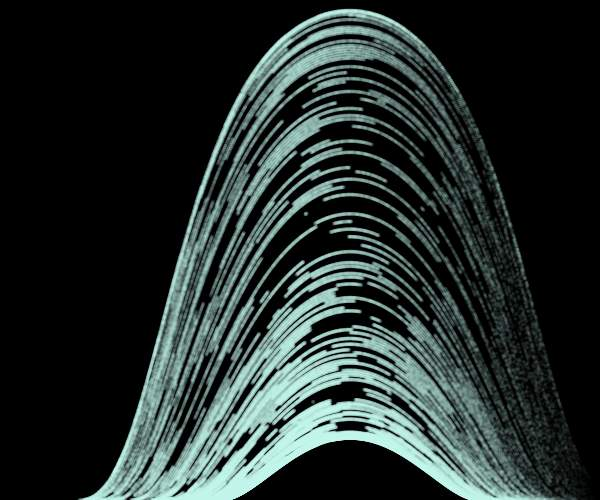
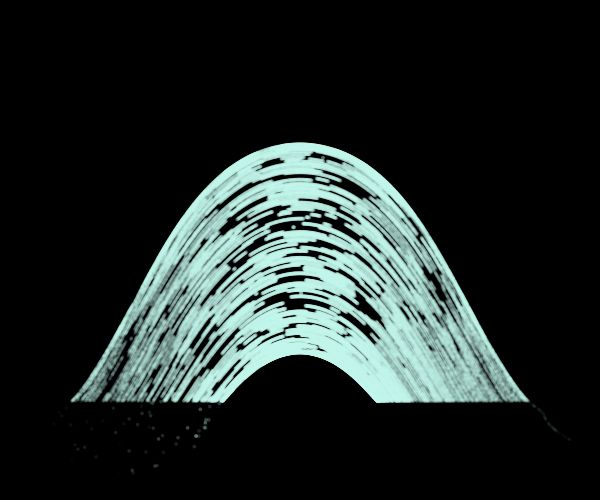
parameterize location via commandline; toss x and y manipulation, clearly list assumptions and TODOs

diff --git a/sky-ring.py b/sky-ring.py
@@ -10,59 +10,76 @@
 # also, we are lacking weather data (i.e. solar magnitude due to clouds,etc.), so we
 # fake it. just follow the FIXME's
 
-import datetime
-import ephem # to install, run `easy_install pyephem`
-import cairo
-from math import pi,radians,sin,cos,sqrt
-import random # FIXME: just for naughty data-faking
+# http://www.reddit.com/r/pics/comments/bqa9y/the_path_of_the_sun_through_the_sky_over_the_last/c0o162g
+# edit: looks like Bellshill, Scotland. The 56th parallel, so that makes sense.
 
-filename = 'sky-ring'
+# Model/Assumptions:
+#  - left is due East, right is due West, horizon is 0° geometric, top is 90° geometric (i.e. straight up)
+#  - center of image at the horizon is due South
+
+# TODO's
+#  - size of sun is arbitrary, figure out how to use ephem's sun.size (and maybe sun.magnitude)
+#  - breaks in the sunlight (clouds) are psuedo-random to simulate real climate data. find some real climate data!
+
+import datetime, sys, random, re
+from math import pi,radians,sin,cos,sqrt
+import ephem, cairo
+
 height = 500.0
 width = 600.0
 
-horizon = 0
+horizon = height / 5
+
+if len(sys.argv) != 2:
+	print('Usage: %s location' % (sys.argv[0]))
+	print('  Location can be a city name ("New York") or a latitude,longitude pair (0:0,0:0)')
+	sys.exit()
+
+loc = sys.argv[1]
+print('Using location (%s)' % loc)
+filename = 'sky-ring-%s.jpg' % re.sub('\W','-',loc)
+print('Filename %s' % filename)
 
 surface = cairo.ImageSurface(cairo.FORMAT_ARGB32, int(width), int(height))
 cr = cairo.Context(surface)
-# draw background
+# black background
 cr.set_source_rgba(0,0,0,1)
 cr.rectangle(0, 0, width, height)
 cr.fill()
 cr.stroke()
 
-#o = ephem.Observer()
-# Los Angeles, Calif. 34°3'N, 118°15'W
-#o.lat, o.long, o.date = '34:3', '-118:15', datetime.utcnow()
-# TODO: make this a parameter, or something
-o = ephem.city('New York')
+# create observer 'o' from parameter loc
+o = None
+if re.match('\d', loc): # lat/long
+	o = ephem.Observer()
+	o.lat, o.long = loc.split(',')
+else:
+	o = ephem.city(loc)
+
 sun = ephem.Sun()
 
 step = datetime.timedelta(minutes=1)
 now = datetime.datetime.now()
 year = now.year
 
+# start at the summer solstice
 when = datetime.datetime(now.year, 6, 21, 0, 0, 0)
 o.date = when
 sunrise = when
 
-# for each day in the year
-while when.year == year:
+while when.month < 12 or when.day <= 21: # ...through the winter solstice
 	# we have sunrise, now calculate sunset
 	o.date = when
 	s = o.next_setting(sun).tuple()
 	sunset = datetime.datetime(s[0],s[1],s[2],s[3],s[4],int(s[5]))
-	print('sunrise=%s sunset=%s' % (sunrise,sunset))
-
-	# calculate today's clouds
-	# TODO:
-
+	print('sunrise=%s sunset=%s' % (sunrise,sunset)) # show progress
 	# FIXME: fake overcast days
 	if random.random() > 0.8:
 		when += datetime.timedelta(days=1)
 		o.date = when
 	else:
 		# FIXME: fake clouds
-		cloudnext = when + (step * (random.randint(0,300)))
+		cloudnext = when + (step * (random.randint(0,200)))
 		cloudlen = random.randint(1,100)
 		while when < sunset:
 			if when == cloudnext:
@@ -71,20 +88,16 @@ while when.year == year:
 				cloudlen = 60 + random.randint(1,60)
 			o.date = when
 			sun = ephem.Sun(o)
-			# FIXME: assume northern hemisphere looking dead south
 			# translate sun position
-			x = width - (float(sun.az) / (1.5*pi) * width) # FIXME: 2*pi
-			x += width / 4 # FIXME: offset
+			x = width - (float(sun.az) / (2*pi) * width)
+			# horizon = 0°, top = 90° (pi/2 radians)
 			y0 = (float(sun.alt) / (pi/2))
-			# FIXME: exagerrate y value for style :/
-			y2 = -10 if y0 < 0 else y0**2*1.5
-			y = (height - horizon) - (y2 * (height - horizon))
+			y = (height - horizon) - (y0 * (height - horizon))
 			"""
-			print('date=%s az=%f alt=%f x=%f y=%f' % (o.date,float(sun.az),float(sun.alt),x,y))
-			print(' ra=%f dec=%f mag=%s size=%f radius=%s earth_distance=%f az=%s(%f) alt=%s(%f)' % \
-				(sun.ra, sun.dec, sun.mag, sun.size, sun.radius, sun.earth_distance, sun.az, float(sun.az), sun.alt, float(sun.alt)))
+			print('date=%s az=%f alt=%f x=%f y=%f mag=%s size=%s' % \
+				(o.date, float(sun.az), float(sun.alt), x, y, sun.mag, sun.size))
 			"""
-			# FIXME: set intensity of sun based on weather and position
+			# TODO: set intensity of sun based on weather and position
 			# c2f6eb
 			# FIXME: force lower intensity on the edges
 			cr.set_source_rgba(0.76, 0.964, 0.921, 0.3+(random.random()*0.2)-((abs(width/2-x))/width))
@@ -99,11 +112,11 @@ while when.year == year:
 	when = sunrise
 cr.stroke()
 
-# draw horizon
+# TODO: draw horizon/foreground
 
 # save
-surface.write_to_png(filename + '.jpg')
+surface.write_to_png(filename)
 surface.finish()
 
-print('done.')
+print('%s done.' % filename)
 
